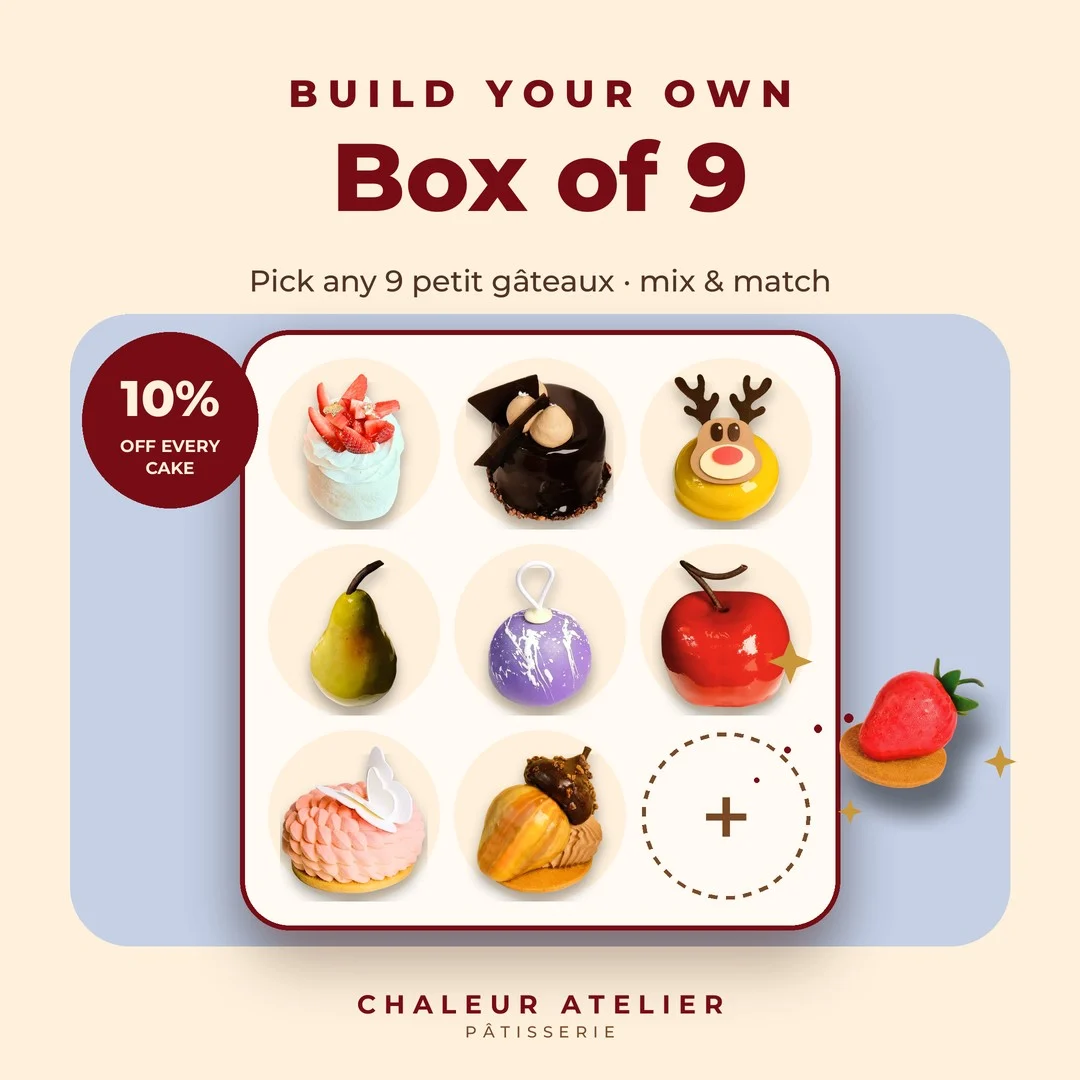
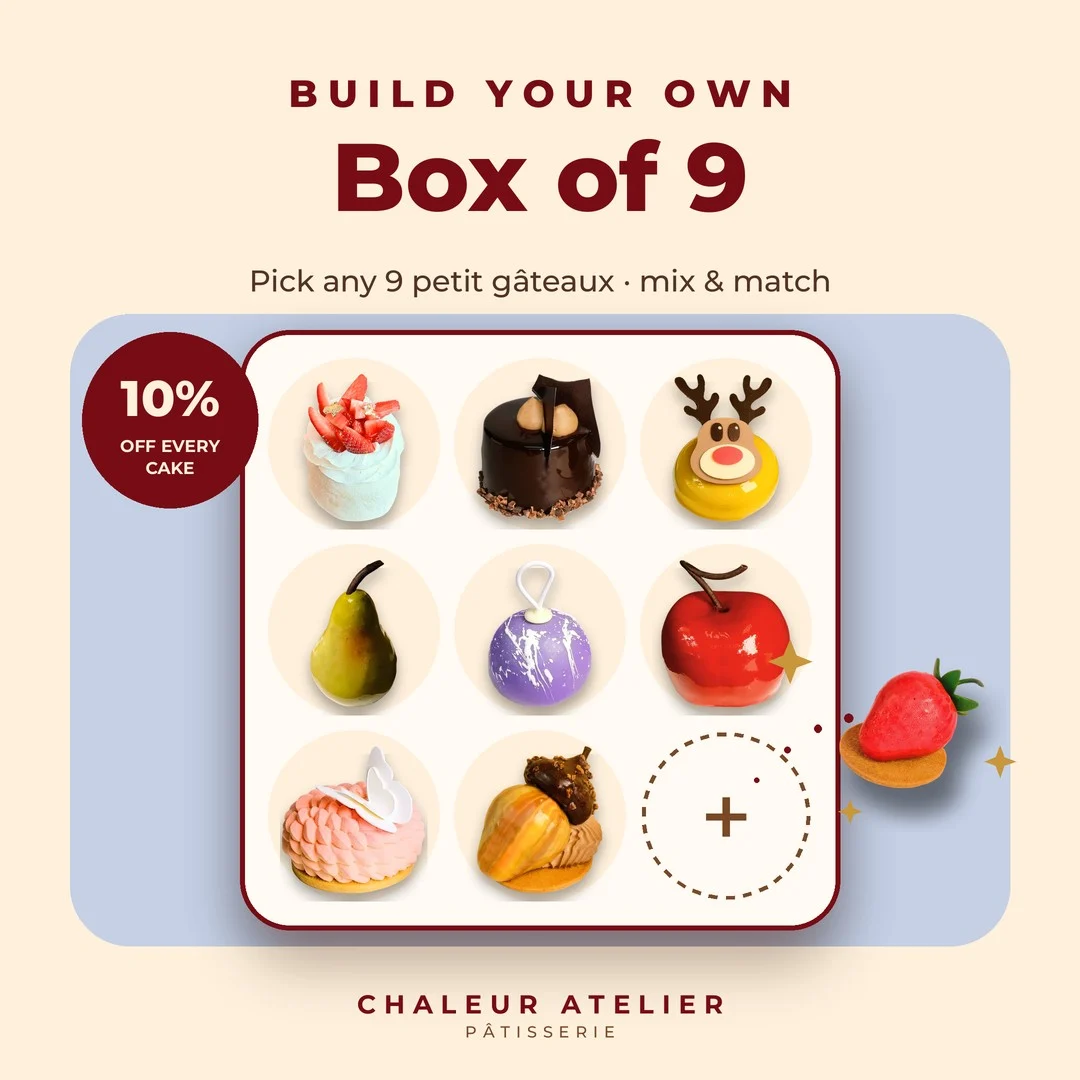
Noir: new photo without silver leaf (box picker + Box of 9 cover), Alfred 26 Nov
Claude-Session: https://claude.ai/code/session_01FB22W5zufTKgYnB6uE9cvC

Changed region(s): [[0.4278, 0.3361, 0.5806, 0.4889]]

diff --git a/live/ca-theme.js b/live/ca-theme.js
@@ -308,7 +308,7 @@ window.__caSelf=window.__caSelf||(document.currentScript&&document.currentScript
 
     /* Build-your-own box: turns Orderla's "Choose your N cakes" picker into a visual box. Orderla's own +/- buttons still do the ordering. */
     var BOX_IMG_BASE='https://chaleurpatisserie-ops.github.io/orderla-theme/img/box/';
-    var BOX_IMGS={"Acorn": "acorn.webp", "Apam Balik": "apam-balik.webp", "Camellia": "camellia.webp", "Cherry": "cherry.webp", "Coconut": "coconut.webp", "Kurma": "kurma.webp", "La Fleur": "la-fleur.webp", "Mango": "mango.webp", "Mochi Strawberry Shortcake": "mochi-strawberry-shortcake.webp", "Mrs. Bunny": "mrs-bunny.webp", "Noir": "noir.webp", "Ornament": "ornament.webp", "Passionfruit": "passionfruit.webp", "Pear": "pear.webp", "Pecan Tartlet": "pecan-tartlet.webp", "Pistachio": "pistachio.webp", "Raspberry": "raspberry.webp", "Rudolph": "rudolph.webp", "Strawberry": "strawberry.webp"};
+    var BOX_IMGS={"Acorn": "acorn.webp", "Apam Balik": "apam-balik.webp", "Camellia": "camellia.webp", "Cherry": "cherry.webp", "Coconut": "coconut.webp", "Kurma": "kurma.webp", "La Fleur": "la-fleur.webp", "Mango": "mango.webp", "Mochi Strawberry Shortcake": "mochi-strawberry-shortcake.webp", "Mrs. Bunny": "mrs-bunny.webp", "Noir": "noir.webp?v=2", "Ornament": "ornament.webp", "Passionfruit": "passionfruit.webp", "Pear": "pear.webp", "Pecan Tartlet": "pecan-tartlet.webp", "Pistachio": "pistachio.webp", "Raspberry": "raspberry.webp", "Rudolph": "rudolph.webp", "Strawberry": "strawberry.webp"};
     window.__caBxImg=function(n){ return bxImg(n); };
     function bxImg(name){
       var key=name.split(' (')[0].trim();
@@ -467,7 +467,7 @@ window.__caSelf=window.__caSelf||(document.currentScript&&document.currentScript
         im.setAttribute('data-ca-cov','0');
         if(!m) continue;
         im.setAttribute('data-ca-cov','1'); im.removeAttribute('srcset');
-        im.src=BOX_IMG_BASE.replace(/box\/$/,'box-cover/')+'box'+m[1]+'.webp?v=1';
+        im.src=BOX_IMG_BASE.replace(/box\/$/,'box-cover/')+'box'+m[1]+'.webp?v=2';
       }
     }
     function start(){

diff --git a/test/ca-theme.js b/test/ca-theme.js
@@ -308,7 +308,7 @@ window.__caSelf=window.__caSelf||(document.currentScript&&document.currentScript
 
     /* Build-your-own box: turns Orderla's "Choose your N cakes" picker into a visual box. Orderla's own +/- buttons still do the ordering. */
     var BOX_IMG_BASE='https://chaleurpatisserie-ops.github.io/orderla-theme/img/box/';
-    var BOX_IMGS={"Acorn": "acorn.webp", "Apam Balik": "apam-balik.webp", "Camellia": "camellia.webp", "Cherry": "cherry.webp", "Coconut": "coconut.webp", "Kurma": "kurma.webp", "La Fleur": "la-fleur.webp", "Mango": "mango.webp", "Mochi Strawberry Shortcake": "mochi-strawberry-shortcake.webp", "Mrs. Bunny": "mrs-bunny.webp", "Noir": "noir.webp", "Ornament": "ornament.webp", "Passionfruit": "passionfruit.webp", "Pear": "pear.webp", "Pecan Tartlet": "pecan-tartlet.webp", "Pistachio": "pistachio.webp", "Raspberry": "raspberry.webp", "Rudolph": "rudolph.webp", "Strawberry": "strawberry.webp"};
+    var BOX_IMGS={"Acorn": "acorn.webp", "Apam Balik": "apam-balik.webp", "Camellia": "camellia.webp", "Cherry": "cherry.webp", "Coconut": "coconut.webp", "Kurma": "kurma.webp", "La Fleur": "la-fleur.webp", "Mango": "mango.webp", "Mochi Strawberry Shortcake": "mochi-strawberry-shortcake.webp", "Mrs. Bunny": "mrs-bunny.webp", "Noir": "noir.webp?v=2", "Ornament": "ornament.webp", "Passionfruit": "passionfruit.webp", "Pear": "pear.webp", "Pecan Tartlet": "pecan-tartlet.webp", "Pistachio": "pistachio.webp", "Raspberry": "raspberry.webp", "Rudolph": "rudolph.webp", "Strawberry": "strawberry.webp"};
     window.__caBxImg=function(n){ return bxImg(n); };
     function bxImg(name){
       var key=name.split(' (')[0].trim();
@@ -467,7 +467,7 @@ window.__caSelf=window.__caSelf||(document.currentScript&&document.currentScript
         im.setAttribute('data-ca-cov','0');
         if(!m) continue;
         im.setAttribute('data-ca-cov','1'); im.removeAttribute('srcset');
-        im.src=BOX_IMG_BASE.replace(/box\/$/,'box-cover/')+'box'+m[1]+'.webp?v=1';
+        im.src=BOX_IMG_BASE.replace(/box\/$/,'box-cover/')+'box'+m[1]+'.webp?v=2';
       }
     }
     function start(){
